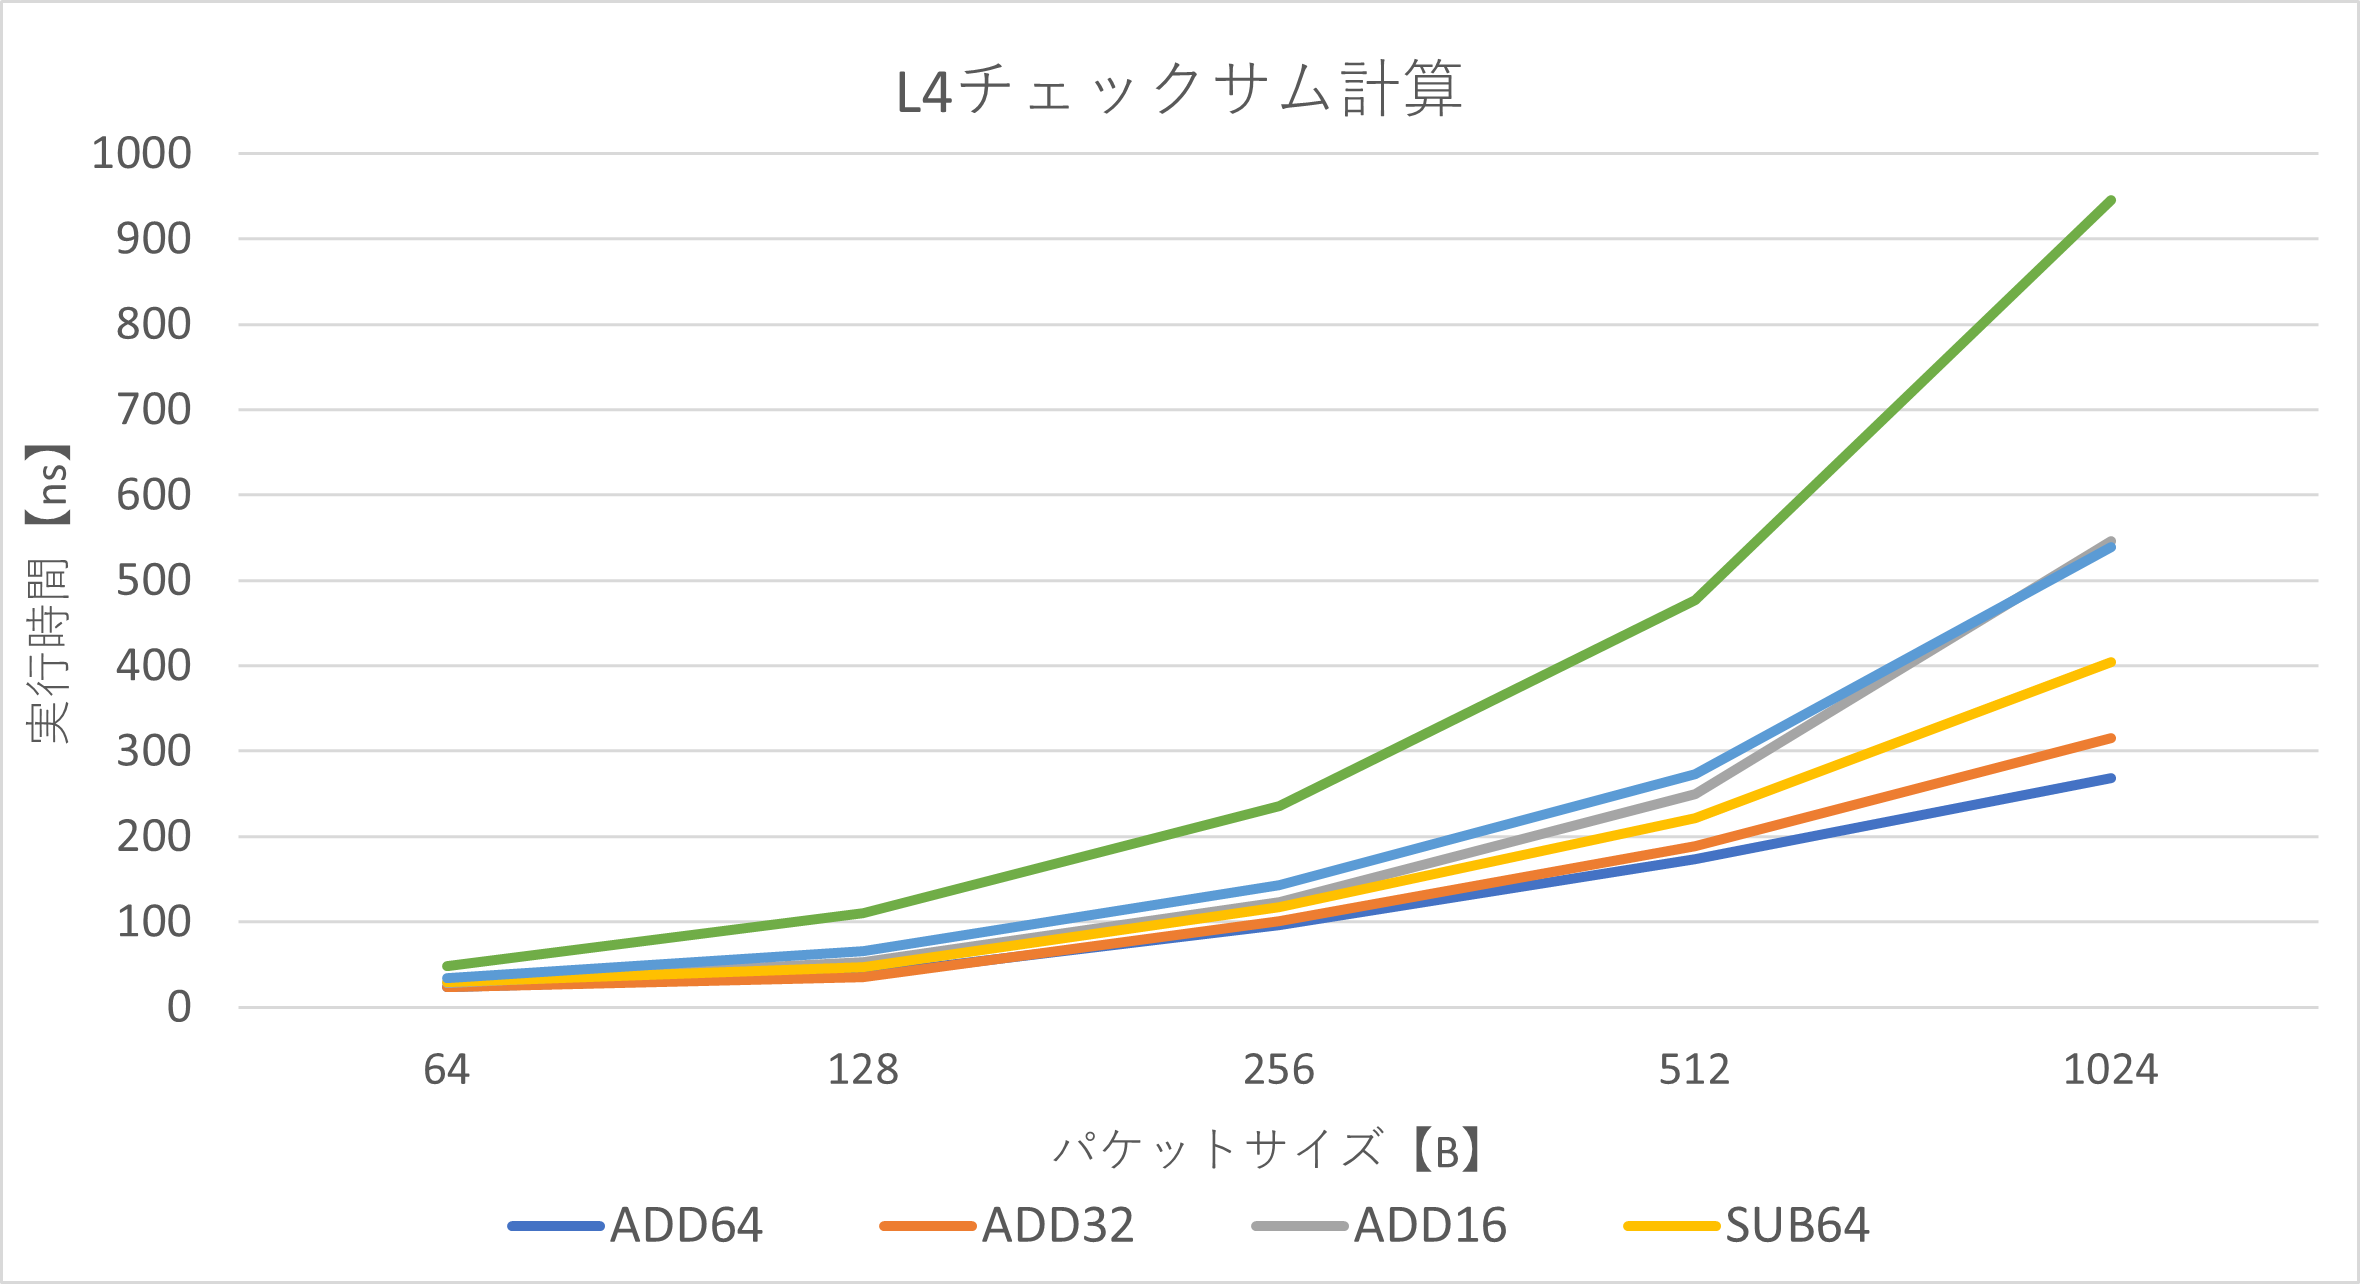
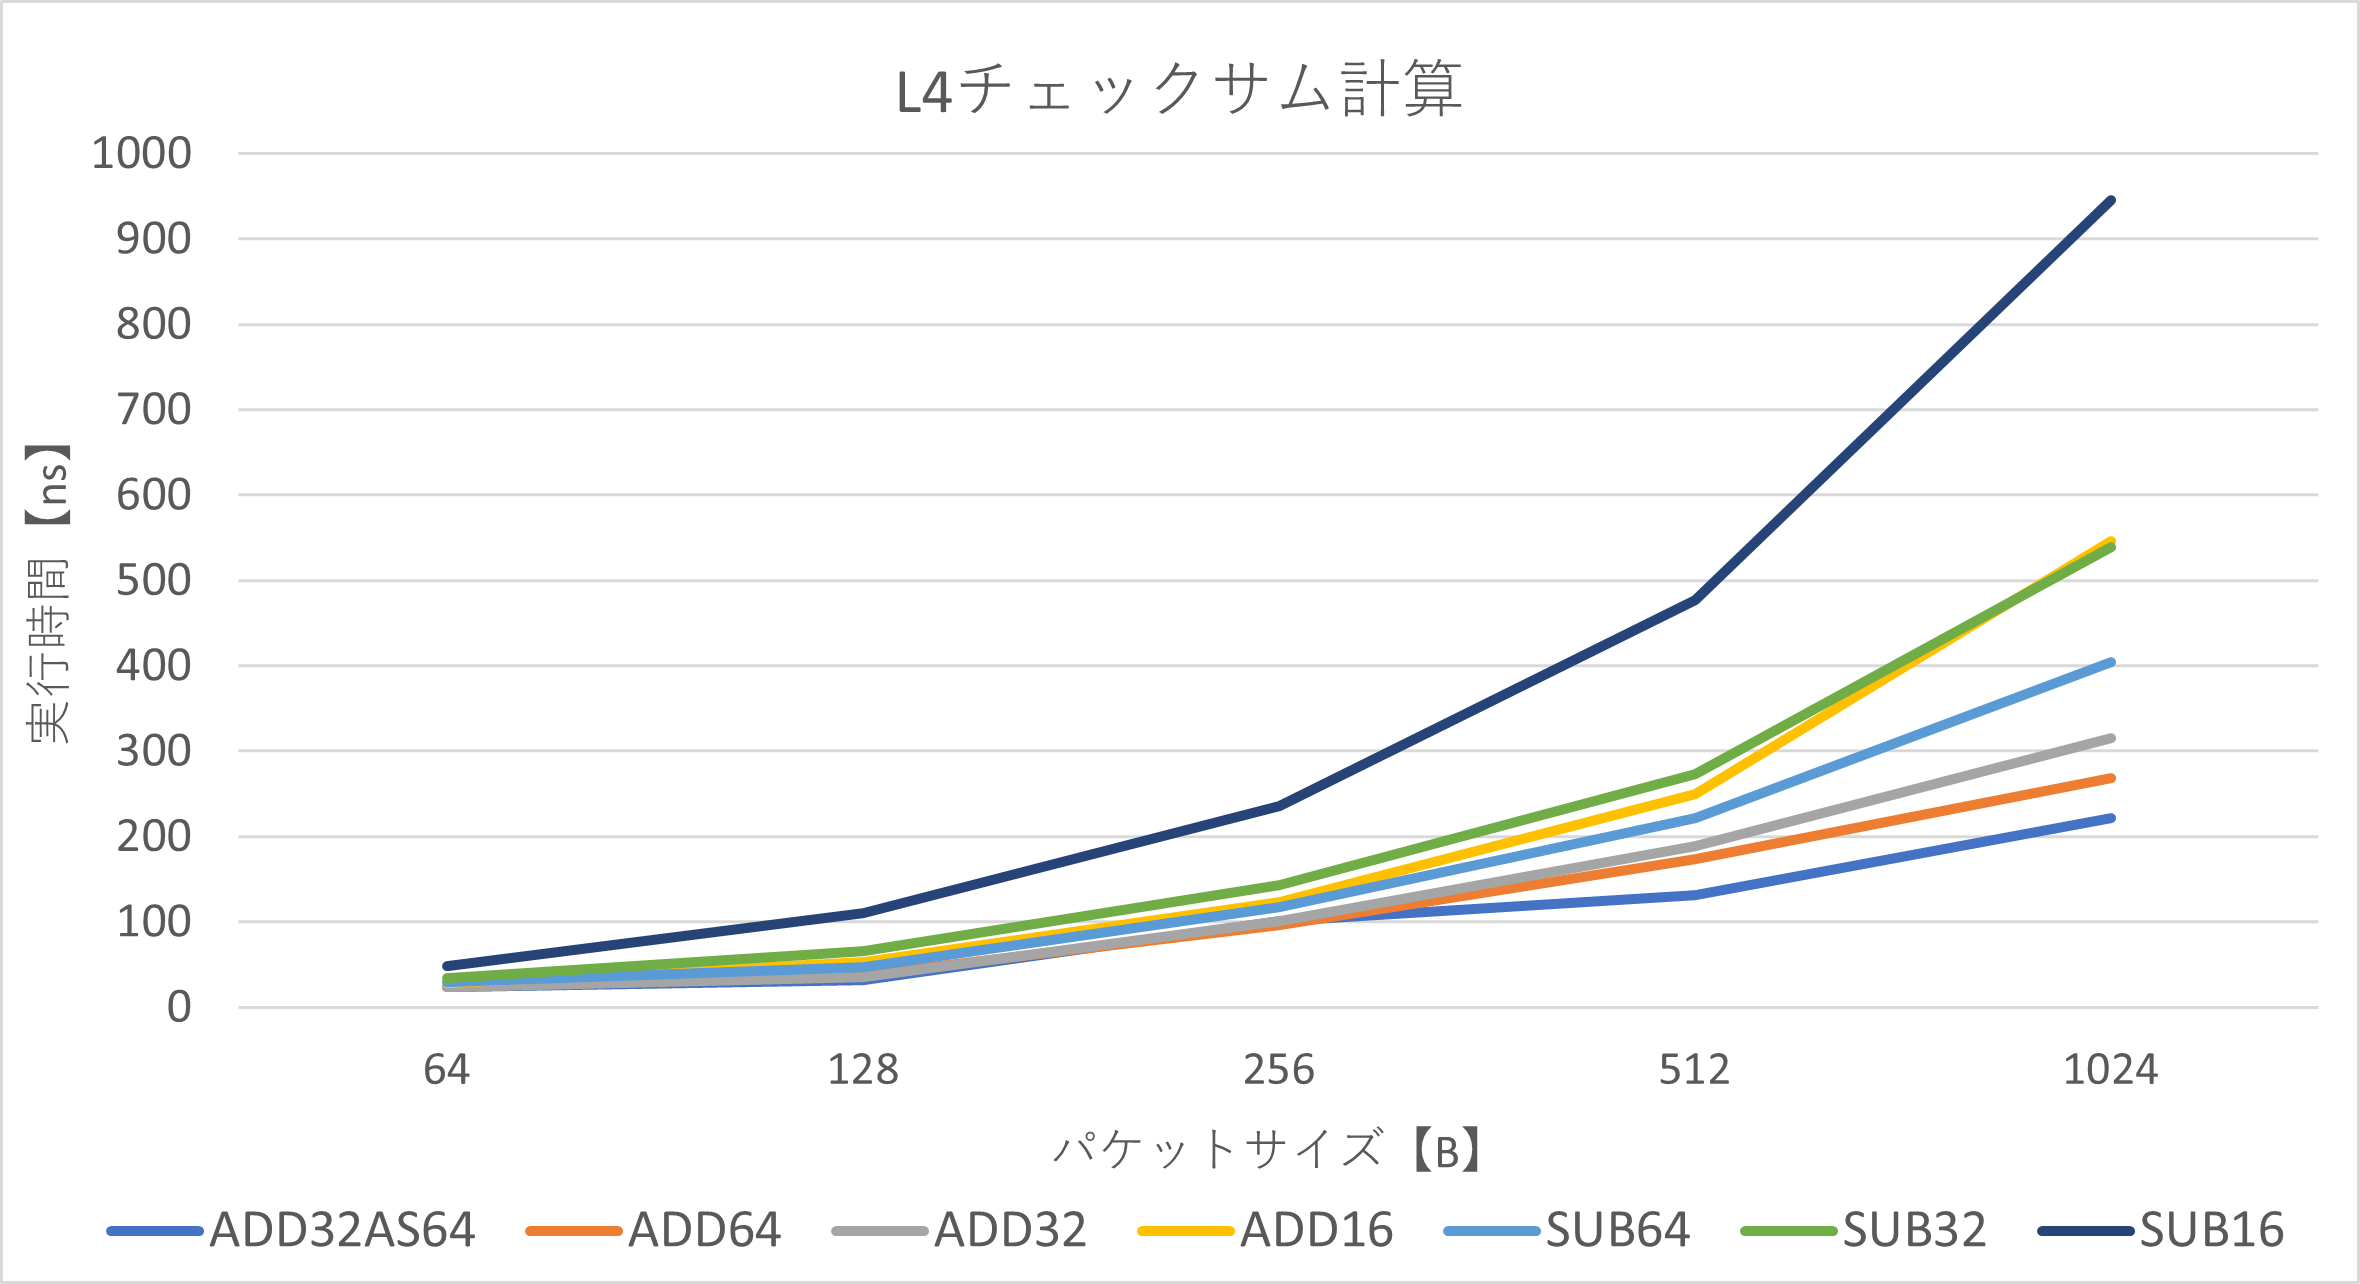
update image

diff --git a/README.md b/README.md
@@ -31,10 +31,16 @@ ADD16AS32は，オーバーフローの検知に16bit確保しているが，最
 
 SUBXXは，加算処理を減算に置き換えたもので，オーバーフローの折返し処理にデータ依存がないため比較に採用．
 
-今回はH/Wオフロードや差分計算といったワークロードは想定しない．
+- L4CSUM_DIFF
+    - ADD32ベースのチェックサム差分計算
+
+- L4CSUM_OFFLOAD
+    - L4チェックサムのH/Wオフロード，疑似ヘッダの計算
 
 ### 実行結果
 
 pktgenでポート0にパケット送信，ポート1から送信したパケットの受け取り側でチェックサムの正誤を確認．
 
 ![L4チェックサム](csum.png)
+
+![L4チェックサム差分](csum_diff.png)
